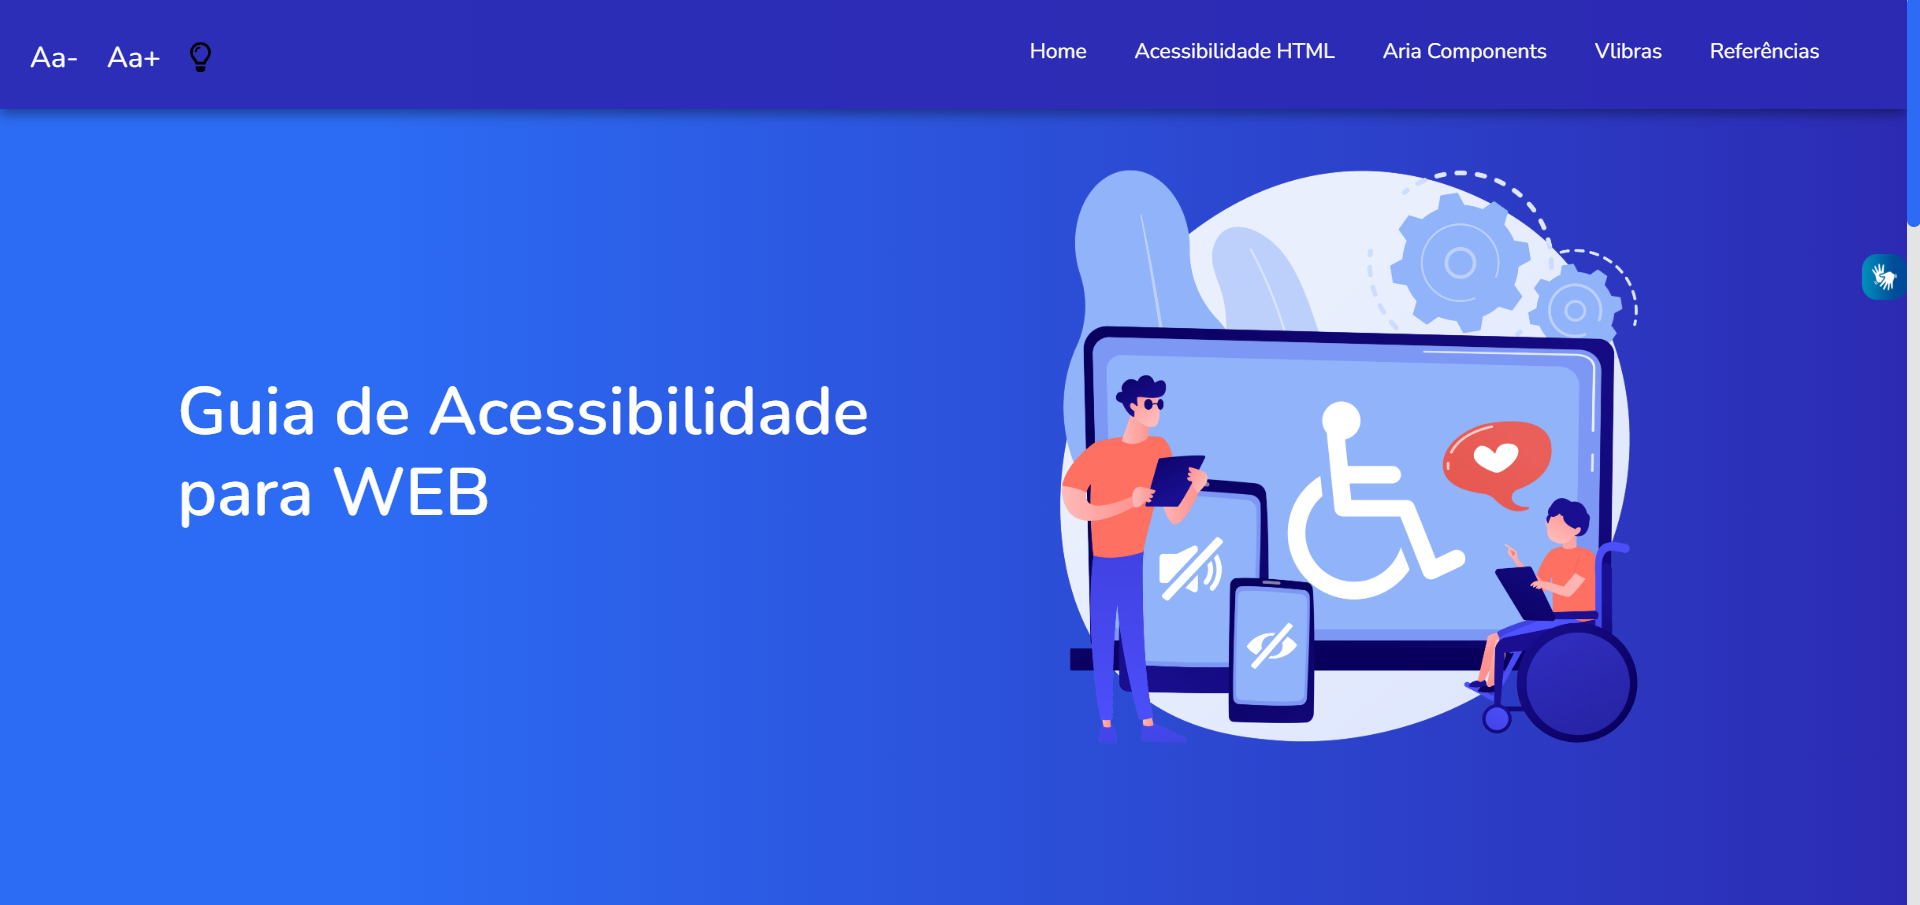
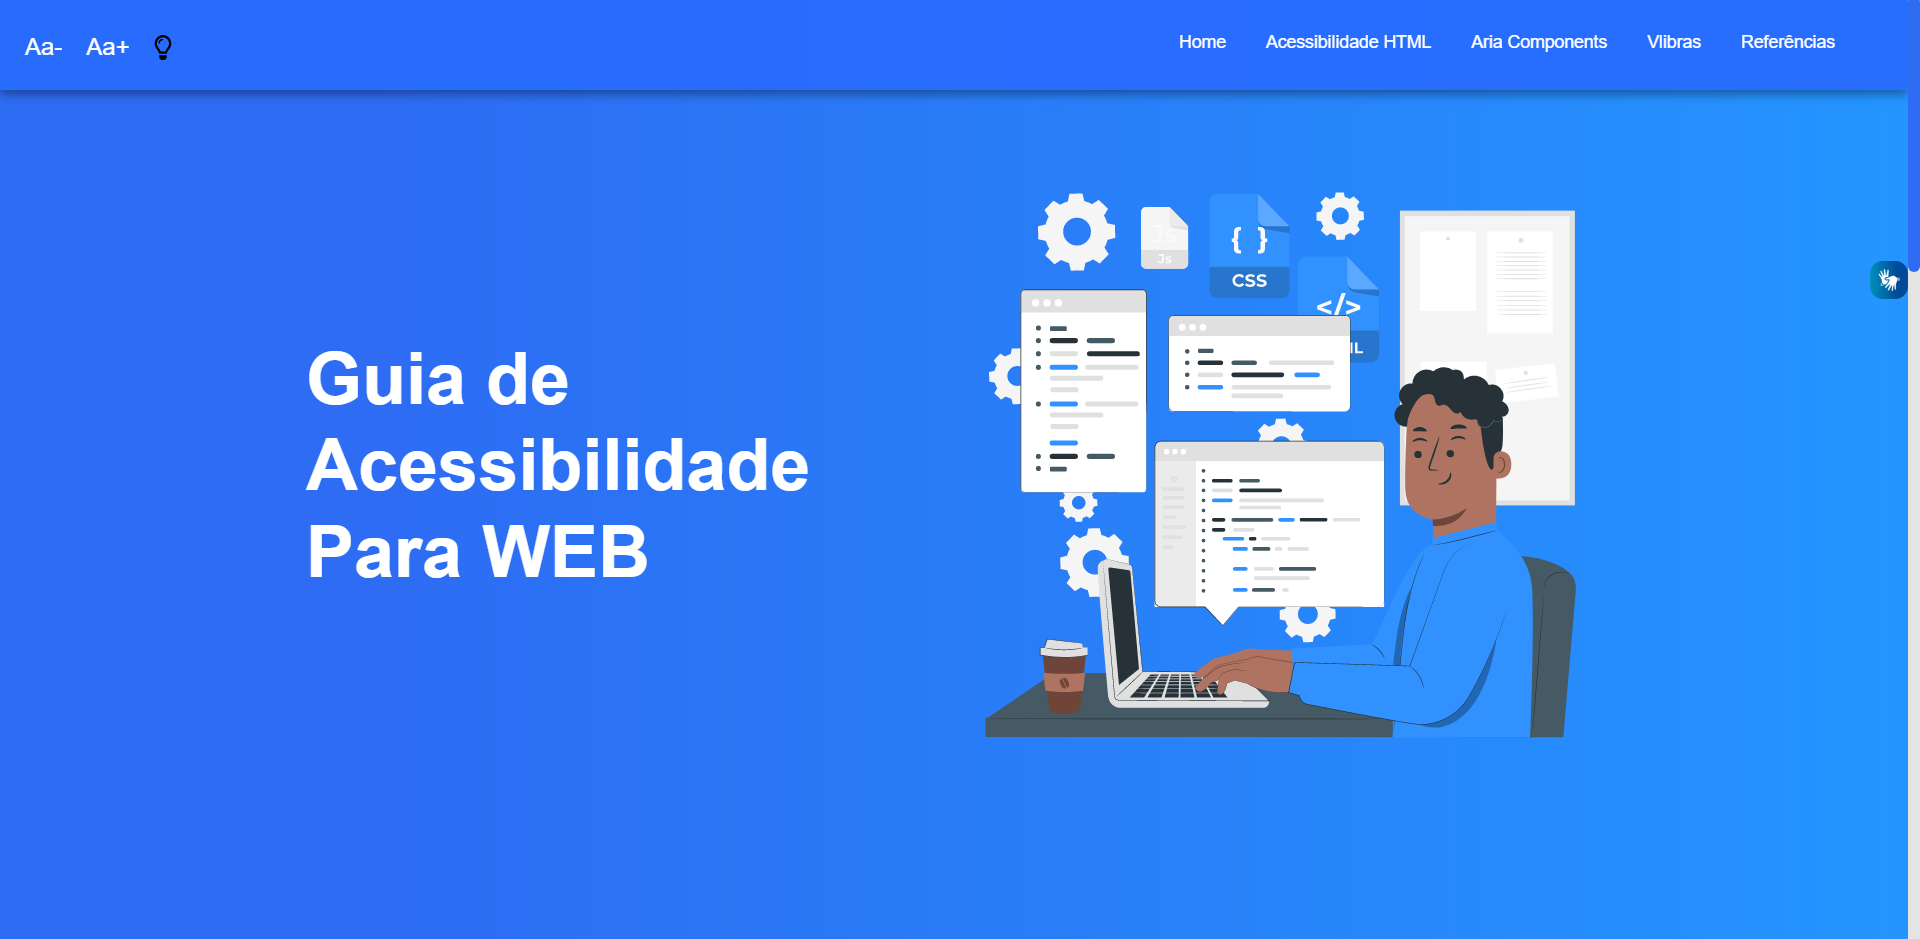
Ajustes gerais

diff --git a/index.html b/index.html
@@ -33,12 +33,10 @@
       <section id="sectionBanner" aria-describedby="Banner Inicial do Site" class="section-banner px-lg-5 px-md-5 px-xl-5 py-lg-5 py-xl-5 py-md-5 d-flex align-items-center">
         <div class="container">
           <div class="row justify-content-center align-items-center">
-            <div class="col-md-6">
-              <h1 class="section-banner__title">
-                <strong>Guia de Acessibilidade Para WEB</strong>
-              </h1>
+            <div class="col-lg-6">
+              <h1 class="section-banner__title mb-4 mb-md-0">Guia de Acessibilidade Para WEB</h1>
             </div>
-            <div class="col-md-6" aria-describedby="Imagem sobre acessibilidade">
+            <div class="col-lg-6" aria-describedby="Imagem sobre acessibilidade">
               <img class="img-fluid" src="assets/accessibility.svg" alt="Imagem Garoto Acessibilidade" />
             </div>
           </div>

diff --git a/style.css b/style.css
@@ -184,8 +184,9 @@ main {
 }
 
 .section-banner__title {
-  font-weight: 500;
+  font-weight: 700;
   font-size: 4.5rem;
+
   font-family: "Urbanist", sans-serif;
 
   color: #fff;
@@ -236,9 +237,10 @@ main {
 }
 /* //Media Queries */
 
-@media (max-width: 769px) {
-  html {
-    font-size: 14px;
+@media (max-width: 1000px) {
+  .header {
+    padding: 10px 5px;
+    font-size: 12px;
   }
 
   .header__list {
@@ -261,7 +263,8 @@ main {
   }
 
   .section-banner__title {
-    font-size: 2rem;
+    margin-top: 50px;
+    font-size: 4rem;
     text-align: center;
     overflow: hidden;
   }
@@ -271,5 +274,13 @@ main {
   .header {
     padding: 10px 5px;
     font-size: 12px;
+  }
+  .section-banner__title {
+    margin-top: 50px;
+    font-size: 3rem;
+    word-wrap: break-word;
+    height: auto;
+    text-align: center;
+    overflow: hidden;
   }
 }
